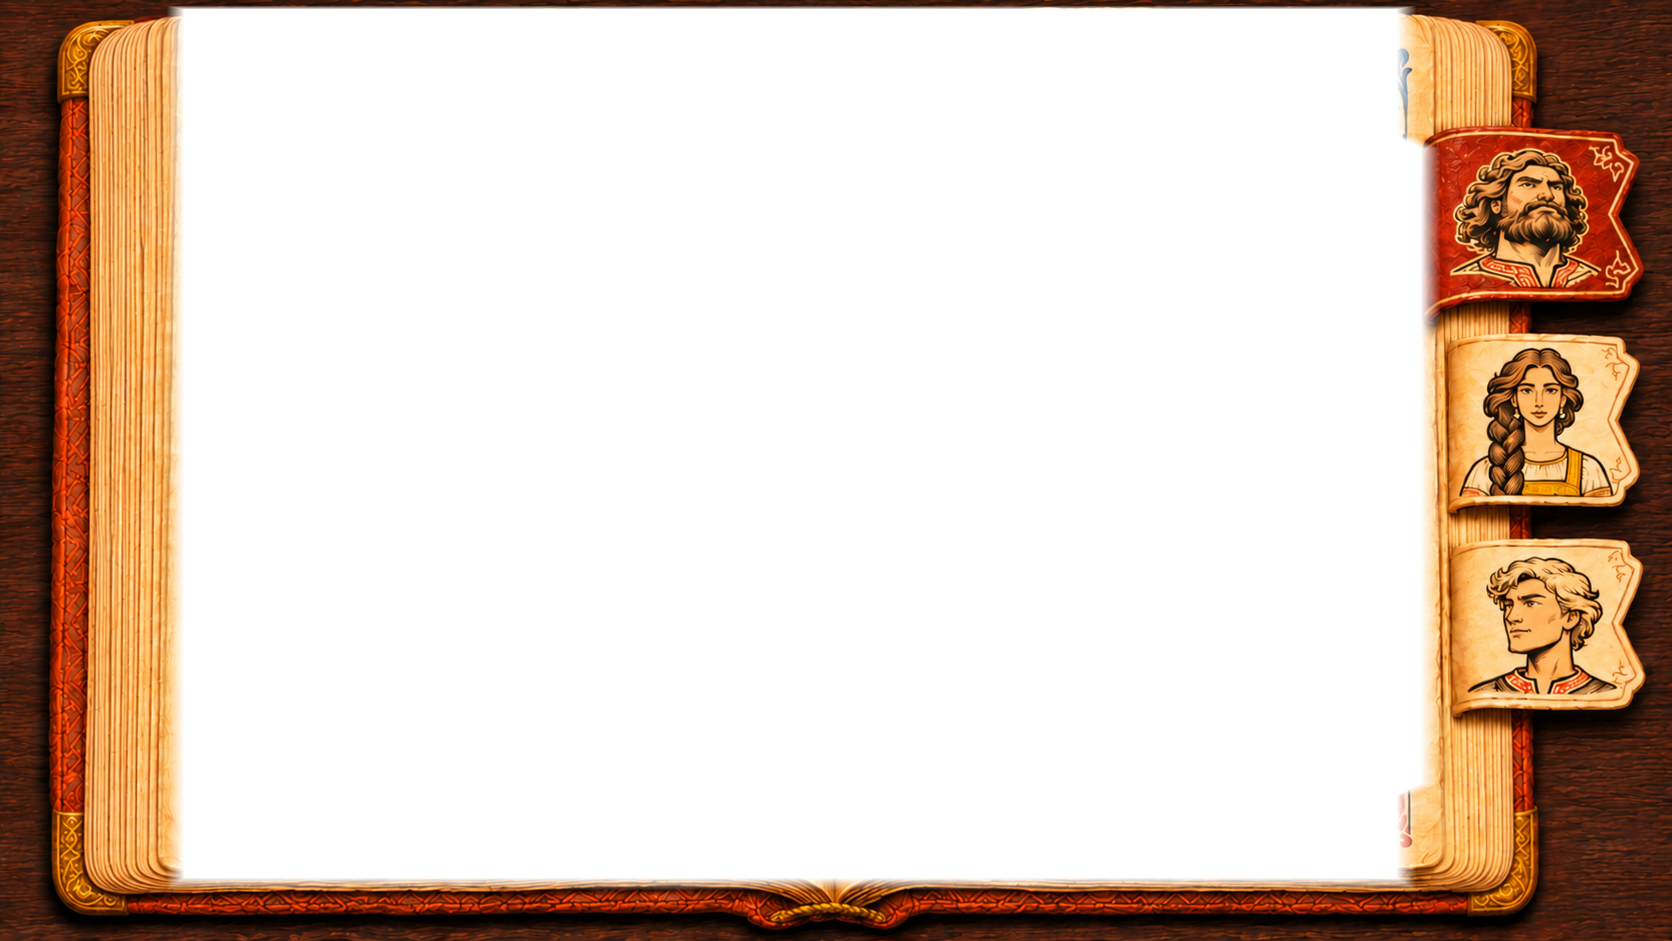
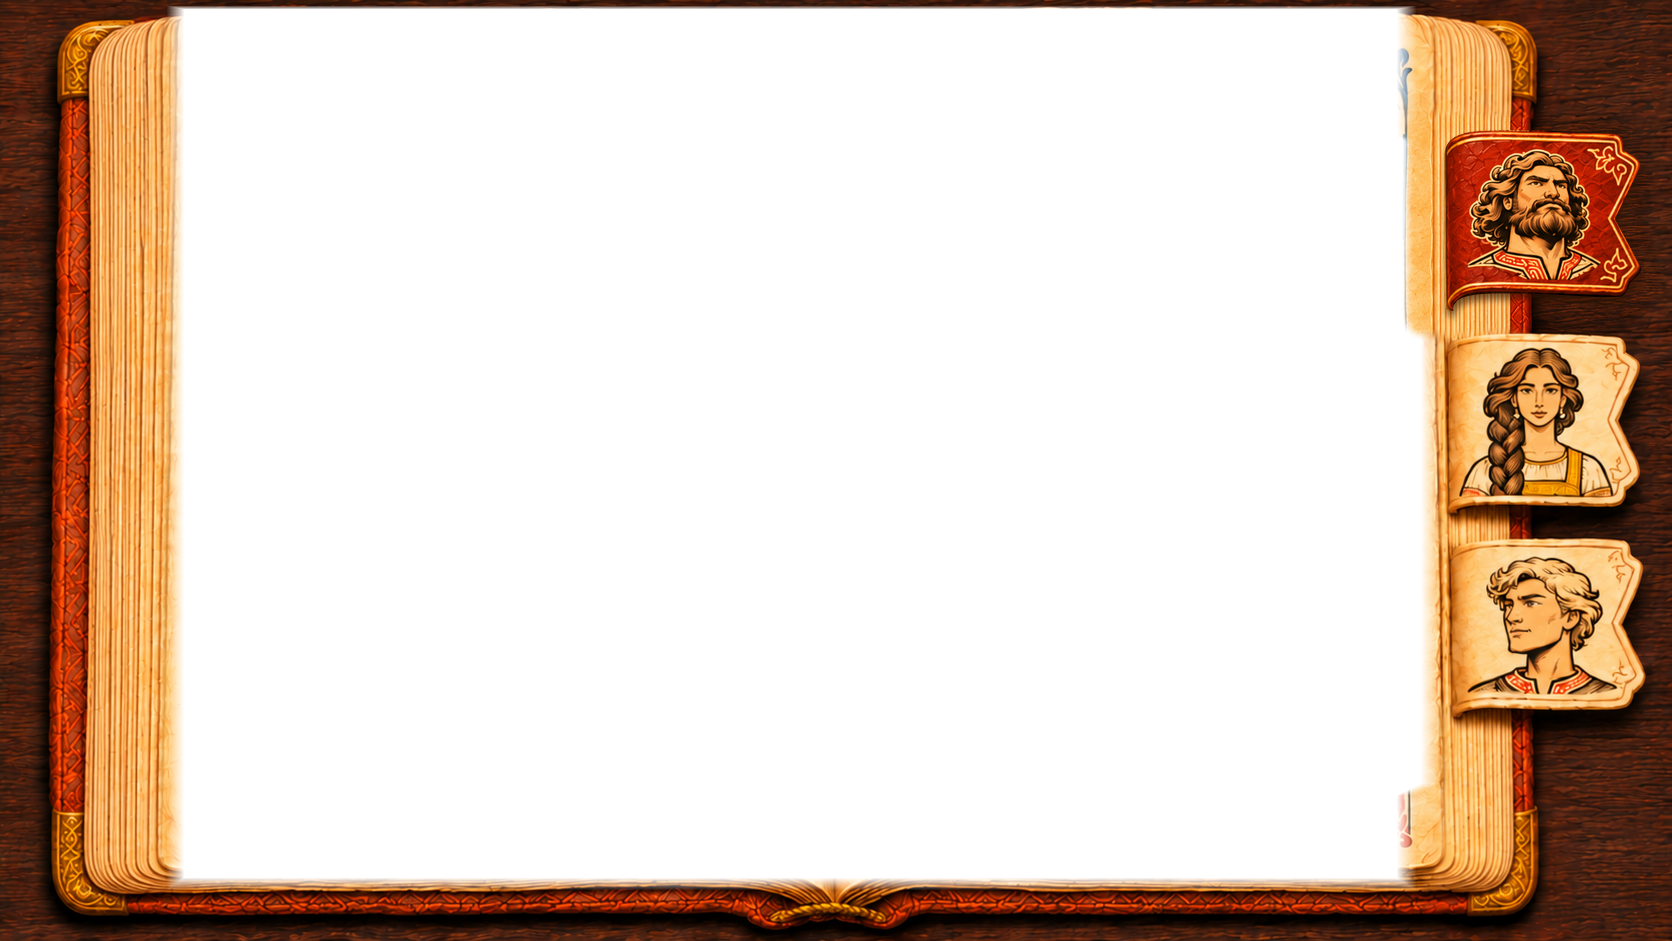
Исправил закладки в книге героев «Распутья»
Красный цвет отмечает выбранного героя. Ромб появляется у закладки под курсором.
Выровнял закладку Ильи и восстановил край страниц и кожи вокруг неё.
Проверил переключение, наведение и уход курсора с закладок.

Changed region(s): [[0.8397, 0.1233, 0.9952, 0.3698]]

diff --git a/engine/src/data/load.rs b/engine/src/data/load.rs
@@ -8533,6 +8533,7 @@ const LABEL_KEYS: &[&str] = &[
     "for",
     "name",
     "show_on_hover",
+    "show_on_pointer",
     "play_on_hover",
     "choose",
     "needs_choice",
@@ -8724,11 +8725,12 @@ fn parse_particle_field(
     true
 }
 
-/// «Наведение»: `name`, `show_on_hover` и `play_on_hover` одного элемента, места ещё по именам.
+/// «Наведение»: имя места и отклики одного элемента, места ещё по именам.
 #[derive(Debug, Clone, Default)]
 struct HoverFields {
     name: Option<String>,
     show_on_hover: Option<String>,
+    show_on_pointer: Option<String>,
     play_on_hover: Option<String>,
 }
 
@@ -8754,9 +8756,8 @@ impl HoverOwner {
     }
 }
 
-/// «Наведение»: разбирает `name`, `show_on_hover` и `play_on_hover` элемента `owner`. `name` бывает у панели
-/// и кнопки, `show_on_hover` — у панели и надписи, `play_on_hover` — у панели; все три — только у элемента
-/// самого экрана, `name` — ещё и без отбора `for`. Внешний `None` — ошибка уже названа.
+/// «Наведение»: имя места и отклики задают у элементов самого экрана. У элемента с `for`
+/// можно задать отклик. Внешний `None` — ошибка уже названа.
 fn parse_hover_fields(
     obj: &serde_json::Map<String, Json>,
     owner: HoverOwner,
@@ -8777,6 +8778,11 @@ fn parse_hover_fields(
             "show_on_hover",
             matches!(owner, HoverOwner::Panel | HoverOwner::Label),
             "показ по наведению бывает только у панели и надписи",
+        ),
+        (
+            "show_on_pointer",
+            owner == HoverOwner::Label,
+            "показ по положению курсора бывает только у надписи",
         ),
         (
             "play_on_hover",
@@ -8819,8 +8825,17 @@ fn parse_hover_fields(
         match key {
             "name" => fields.name = Some(text),
             "show_on_hover" => fields.show_on_hover = Some(text),
+            "show_on_pointer" => fields.show_on_pointer = Some(text),
             _ => fields.play_on_hover = Some(text),
         }
+    }
+    if fields.show_on_hover.is_some() && fields.show_on_pointer.is_some() {
+        errors.push(
+            file,
+            &join(path, "show_on_pointer"),
+            "у надписи задают либо show_on_hover, либо show_on_pointer",
+        );
+        ok = false;
     }
     ok.then_some(fields)
 }
@@ -10722,7 +10737,7 @@ fn screen_hover_places(
     places
 }
 
-/// «Наведение»: место, названное в `key` (`show_on_hover` или `play_on_hover`) элемента по пути `path`.
+/// «Наведение»: место, названное в поле отклика `key` элемента по пути `path`.
 /// `Some(None)` — поля нет, внешний `None` — места с таким именем на экране нет, ошибка названа.
 fn resolve_hover_place(
     name: Option<&str>,
@@ -10968,6 +10983,15 @@ fn resolve_element(
                 path,
                 errors,
             );
+            let show_on_pointer = resolve_hover_place(
+                hover.show_on_pointer.as_deref(),
+                "show_on_pointer",
+                places,
+                screen_name,
+                file,
+                path,
+                errors,
+            );
             let font = resolve_font(font_name, fonts, file, &join(path, "font"), errors);
             let text_ok = validate_text_refs(
                 text,
@@ -10992,6 +11016,7 @@ fn resolve_element(
                 wrap: *wrap,
                 for_: for_.clone(),
                 show_on_hover,
+                show_on_pointer: show_on_pointer?,
             })
         }
         ParsedElementData::Button {
@@ -12960,8 +12985,7 @@ fn validate_rest_at(
     }
 }
 
-/// «Наведение»: предупреждение (игра идёт) о месте наведения, на которое не откликается ни один элемент
-/// того же экрана — ни `show_on_hover`, ни `play_on_hover` с его именем.
+/// «Наведение»: предупреждение о месте наведения, на которое не откликается ни один элемент экрана.
 fn warn_unanswered_hover_places(screens: &[Screen], screens_file: &str, errors: &mut ErrorSink) {
     for (screen_index, screen) in screens.iter().enumerate() {
         let answered = answered_places(screen);
@@ -12977,7 +13001,7 @@ fn warn_unanswered_hover_places(screens: &[Screen], screens_file: &str, errors: 
                     screens_file,
                     &format!("screens[{screen_index}].elements[{element_index}].name"),
                     format!(
-                        "место наведения \"{name}\" на экране \"{}\": на него не откликается ни один элемент; ожидался show_on_hover или play_on_hover с этим именем",
+                        "место наведения \"{name}\" на экране \"{}\": на него не откликается ни один элемент; ожидался show_on_hover, show_on_pointer или play_on_hover с этим именем",
                         screen.name
                     ),
                 );
@@ -12986,13 +13010,18 @@ fn warn_unanswered_hover_places(screens: &[Screen], screens_file: &str, errors: 
     }
 }
 
-/// «Наведение»: номера мест экрана, на которые откликается хоть один элемент — `show_on_hover` или
-/// `play_on_hover` с их именем.
+/// «Наведение»: номера мест экрана, на которые откликается хотя бы один элемент.
 fn answered_places(screen: &Screen) -> std::collections::HashSet<usize> {
     screen
         .elements
         .iter()
-        .flat_map(|element| [element.show_on_hover(), element.play_on_hover()])
+        .flat_map(|element| {
+            [
+                element.show_on_hover(),
+                element.show_on_pointer(),
+                element.play_on_hover(),
+            ]
+        })
         .flatten()
         .collect()
 }

diff --git a/engine/tests/platformer_hero_choice.rs b/engine/tests/platformer_hero_choice.rs
@@ -182,6 +182,87 @@ fn the_chosen_heros_spread_fills_the_window() {
 }
 
 #[test]
+fn bookmark_colors_follow_the_chosen_hero_while_hovering_another() {
+    let (mut ui, images) = load();
+    click_place(&mut ui, "new_game");
+
+    for (hero, hovered, expected) in [
+        ("vasilisa", "ilya", Some("hero_bookmarks_vasilisa")),
+        ("alyosha", "vasilisa", Some("hero_bookmarks_alyosha")),
+        ("ilya", "alyosha", None),
+    ] {
+        click_place(&mut ui, hero);
+        let [x, y] = middle_of(&ui, |element| element.place_name() == Some(hovered));
+        ui.queue.push_mouse_move(x, y);
+        screens::process_ui_queue(
+            &mut ui.queue,
+            &mut ui.mouse,
+            &mut ui.game,
+            &ui.config,
+            &mut ui.state,
+            VIEWPORT,
+        );
+        assert_eq!(ui.state.chosen("heroes"), Some(hero));
+
+        let elements = &ui.config.screens[ui.state.active()].elements;
+        let (choice, names) = elements
+            .iter()
+            .find_map(|element| match element {
+                Element::Panel {
+                    fill: PanelFill::Choice { choice, names, .. },
+                    show_on_hover: None,
+                    ..
+                } if choice.field.as_deref() == Some("bookmarks") => Some((choice, names)),
+                _ => None,
+            })
+            .expect("слой закладок зависит от выбора героя");
+        let image = ui.state.choices(&ui.config).image(choice, names);
+        assert_eq!(image.map(|id| images[id].name.as_str()), expected, "{hero}");
+    }
+}
+
+#[test]
+fn the_diamond_follows_the_pointer_over_equal_bookmark_areas() {
+    let (ui, _) = book_page_of("vasilisa");
+    let screen_id = ui.state.active();
+    let screen = &ui.config.screens[screen_id];
+    let frame = ui.config.ui_frame(screen_id, VIEWPORT);
+    let parts = interface::layout(screen, screen_id, &ui.game.world, &ui.state, frame.viewport);
+    let bookmarks = screen
+        .elements
+        .iter()
+        .filter(|element| element.choose() == Some("heroes"));
+    for bookmark in bookmarks {
+        assert_eq!(bookmark.placement().offset[0], 809.0);
+        assert_eq!(bookmark.placement().size, [226.0, 194.0]);
+    }
+
+    let visible_diamonds = |pointer: Option<[f32; 2]>| {
+        let hover = screens::hover_place(&parts, pointer.map(|point| frame.point(point)));
+        let lit = ui.state.lit(screen, hover);
+        screen
+            .elements
+            .iter()
+            .filter_map(|element| match element {
+                Element::Label { text, placement, .. }
+                    if element.visible_over(&lit)
+                        && matches!(text.as_slice(), [screens::TextPart::Literal(glyph)] if glyph == "◆") =>
+                {
+                    Some(placement.offset[1])
+                }
+                _ => None,
+            })
+            .collect::<Vec<_>>()
+    };
+    assert!(visible_diamonds(None).is_empty());
+    assert!(visible_diamonds(Some([400.0, 300.0])).is_empty());
+    for (hero, row) in [("ilya", -285.0), ("vasilisa", -55.0), ("alyosha", 178.0)] {
+        let point = middle_of(&ui, |element| element.place_name() == Some(hero));
+        assert_eq!(visible_diamonds(Some(point)), [row], "{hero}");
+    }
+}
+
+#[test]
 fn the_right_edge_of_the_bookmark_selects_the_hero_in_a_wide_window() {
     let (mut ui, _) = book_page_of("ilya");
     ui.queue.push_mouse_move(1880.0, 408.0);

diff --git a/engine/src/core/screens.rs b/engine/src/core/screens.rs
@@ -432,6 +432,7 @@ pub enum Element {
         for_: Option<Selector>,
         /// «Наведение»: номер элемента экрана — места, пока курсор над которым надпись рисуется.
         show_on_hover: Option<usize>,
+        show_on_pointer: Option<usize>,
     },
     Button {
         placement: Placement,
@@ -529,6 +530,15 @@ impl Element {
         }
     }
 
+    pub fn show_on_pointer(&self) -> Option<usize> {
+        match self {
+            Element::Label {
+                show_on_pointer, ..
+            } => *show_on_pointer,
+            _ => None,
+        }
+    }
+
     /// «Выбор»: группа, в которой щелчок по панели или кнопке выбирает её место.
     pub fn choose(&self) -> Option<&str> {
         match self {
@@ -545,8 +555,11 @@ impl Element {
         }
     }
 
-    /// «Наведение», «Выбор»: рисуется ли элемент, когда горят места `lit`: без `show_on_hover` рисуется всегда.
+    /// «Наведение», «Выбор»: рисуется ли элемент при текущем наведении и выборе.
     pub fn visible_over(&self, lit: &Lit) -> bool {
+        if let Some(target) = self.show_on_pointer() {
+            return lit.hover == Some(target);
+        }
         self.show_on_hover()
             .is_none_or(|target| lit.contains(target))
     }

diff --git a/engine/src/wasm/mod.rs b/engine/src/wasm/mod.rs
@@ -1414,7 +1414,7 @@ fn compose_ui(
                 },
             });
         }
-        // «Наведение», «Выбор»: элемент с `show_on_hover` рисуется, только пока горит его место.
+        // «Наведение», «Выбор»: видимость элемента зависит от положения курсора и выбора.
         if !placed.element.visible_over(&lit) {
             continue;
         }
